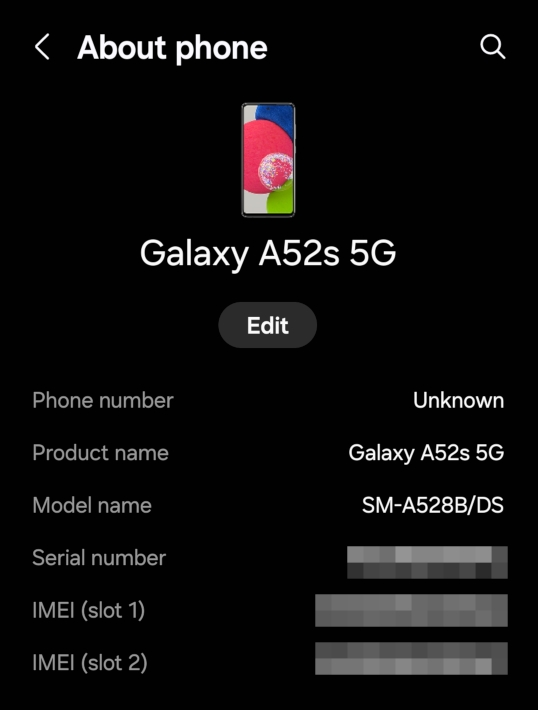
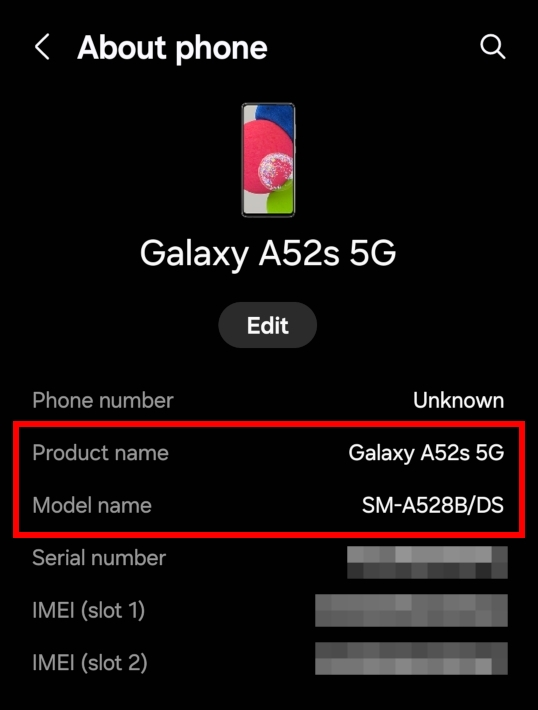
resize and highlight image

Changed region(s): [[0.0, 0.5887, 0.9814, 0.7746]]

diff --git a/README.md b/README.md
@@ -20,7 +20,7 @@ Below we'll go through the steps of installing LineageOS to the Samsung Galaxy A
 <!--
 ![Check product name and model name from settings' about menu](images/01_settings_model_name_resize.jpg)  -->
 <p align="center">
-<img src="images/01_settings_model_name_resize.jpg" alt="Check product name and model name from settings' about menu" style="width:33%; height:auto;">  
+<img src="images/01_settings_model_name_resize.jpg" alt="Check product name and model name from settings' about menu" style="width:50%; height:auto;">  
 </p>
 
 <p align="center">
